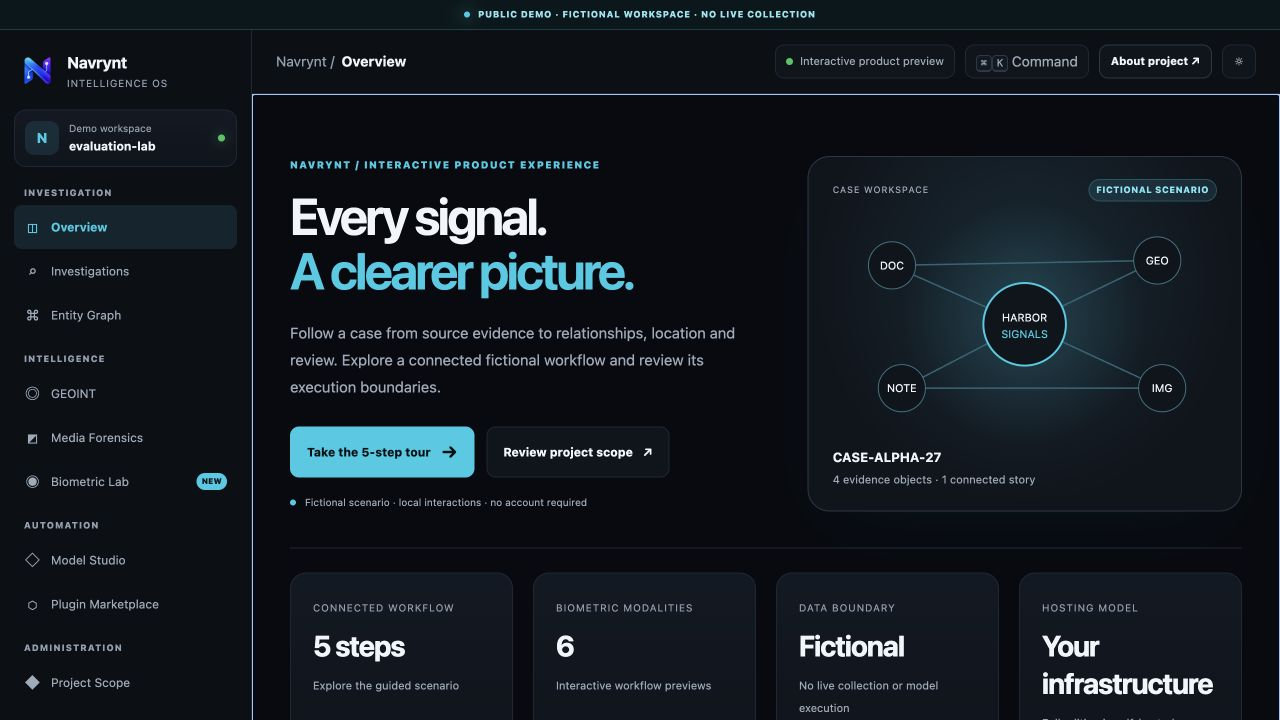
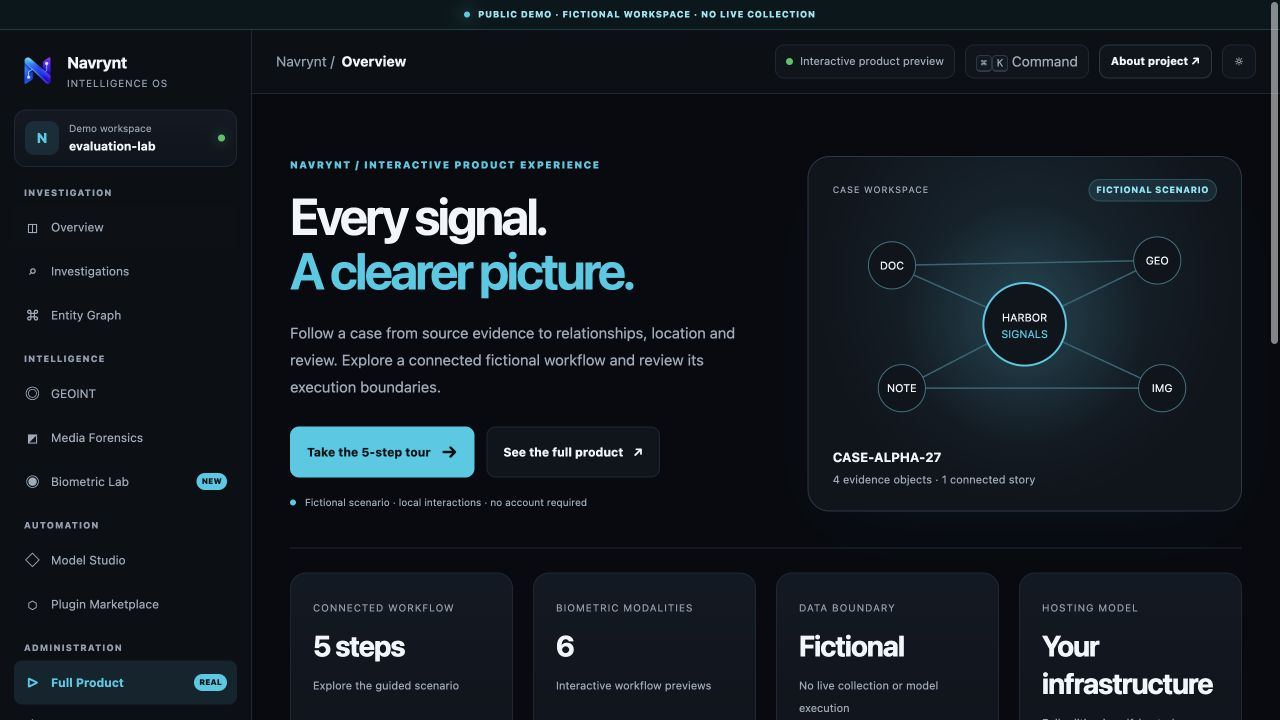
docs: explain full application and link live demo

diff --git a/README.md b/README.md
@@ -12,12 +12,12 @@
   <img src="https://img.shields.io/badge/stack-HTML%20%C2%B7%20CSS%20%C2%B7%20JavaScript-89c4ff?style=flat-square" alt="Stack: HTML, CSS and JavaScript">
 </p>
 <p align="center">
-  <a href="README.tr.md">Türkçe</a> · <a href="#demo">Demo</a> · <a href="#quick-start">Quick start</a> · <a href="#features">Features</a> · <a href="#screenshots">Screenshots</a> · <a href="#scope">Scope</a> · <a href="docs/WORKFLOWS.md">Workflow guide</a>
+  <a href="https://kaandevs-ops.github.io/navrynt-demo-public/">Open live demo ↗</a> · <a href="README.tr.md">Türkçe</a> · <a href="#demo">Demo</a> · <a href="#quick-start">Quick start</a> · <a href="#features">Features</a> · <a href="#screenshots">Screenshots</a> · <a href="#scope">Scope</a> · <a href="docs/WORKFLOWS.md">Workflow guide</a>
 </p>
 
 ![NAVRYNT investigation workspace overview](docs/media/overview.png)
 
-> **Static demo, explicit boundaries.** The interactive case, entities and tracks are fictional. Local file hashing really runs in the browser. Biometric tabs and Model Studio are workflow previews: no model inference, live intelligence collection or training runs here. GitHub Pages is not enabled; run the demo locally using the commands below.
+> **Static demo, explicit boundaries.** The interactive case, entities and tracks are fictional. Local file hashing really runs in the browser. Biometric tabs and Model Studio are workflow previews: no model inference, live intelligence collection or training runs here. Open the live demo or run it locally using the commands below. Separate historical full-product recordings are available under Full Product.
 
 ## Demo
 
@@ -64,6 +64,33 @@ Try this path: **Investigations → Harbor Signals → evidence timeline → Ent
 ![Actual static-demo tabs for Face, Iris, Fingerprint, Voiceprint, Writer-ID and Gait](docs/media/biometric-previews.gif)
 
 **Face · Iris · Fingerprint · Voiceprint · Writer-ID · Gait** each has a dedicated preview. Stages and boundary notes explain the workflow without requesting biometric data. Illustrative scores and descriptions do not constitute a new identification result or a deployment accuracy benchmark.
+
+## About the full NAVRYNT application
+
+NAVRYNT is a separate self-hosted investigation application with a Python backend and React workspace. It brings together evidence review, relationship graphs, geospatial views, provider adapters, six biometric service paths and supported model lifecycle operations. Installation, model dependencies and provider access are configured separately.
+
+**[Explore the full-product section](https://kaandevs-ops.github.io/navrynt-demo-public/#proof)** · [Recording sources and limits](docs/FULL-PRODUCT.md) · [Watch the 24-second product tour](assets/proof/product-tour.mp4)
+
+| This public demo | Separate full application |
+|---|---|
+| Fictional cases, selectable SVG graph and generated tracks | Configured investigation workflows and data adapters |
+| Six biometric interface previews | Separate model services with protocol-specific evaluation |
+| Example plan with `executes: false` | Supported jobs with required models, data and runtimes |
+| Browser-local interactions without a backend | Self-hosted backend/frontend and separately configured providers |
+
+### Actual full-product captures
+
+These four historical runs were captured on **16 October 2026**. They are separate from the fictional demo. Playing a clip does not execute that workflow in the browser.
+
+| Regional aircraft exploration | Earthquake map |
+|---|---|
+| [![Actual application: aircraft positions](assets/proof/aircraft.png)](assets/proof/aircraft.mp4) | [![Actual application: earthquake map](assets/proof/earthquakes.png)](assets/proof/earthquakes.mp4) |
+
+| Company relationship review | Research voice comparison |
+|---|---|
+| [![Actual application: company relationship](assets/proof/companies.png)](assets/proof/companies.mp4) | [![Actual application: voice comparison](assets/proof/voice.png)](assets/proof/voice.mp4) |
+
+Sources: ADSB.lol/OpenStreetMap, USGS/OpenStreetMap, GLEIF and LibriSpeech. Aircraft data is a historical snapshot; company parentage is an accounting relationship; the voice example is research evidence, not general identity accuracy. These clips do not establish that every provider, biometric service or deployment combination works. [Full attribution and limitations](docs/FULL-PRODUCT.md).
 
 ## Screenshots
 
@@ -115,7 +142,7 @@ Try this path: **Investigations → Harbor Signals → evidence timeline → Ent
 | Web Crypto SHA-256 of a selected file | Biometric model execution and identity galleries |
 | Example brief and non-executing model-plan exports | Model loading, training, evaluation and artifact export |
 
-A matching hash proves byte equality, not authenticity. A graph link does not prove identity. Workflow previews do not establish biometric accuracy or production readiness. The private full application, licensing tools, credentials, model weights and research datasets are not distributed here. Historical full-product recordings are not included in this demo repository.
+A matching hash proves byte equality, not authenticity. A graph link does not prove identity. Workflow previews do not establish biometric accuracy or production readiness. The private full application, licensing tools, credentials, model weights and research datasets are not distributed here. Four historical full-product recordings and their source notes are included separately from the fictional demo interactions.
 
 ## Technology and structure
 
@@ -128,7 +155,9 @@ scope-view.js       Data and execution boundaries
 styles.css          Responsive interface and dark/light themes
 assets/             Logo and favicon
 docs/WORKFLOWS.md   Hands-on walkthrough and troubleshooting
-docs/MEDIA.md       Capture method and media checksums
+docs/MEDIA.md       Demo capture method and media checksums
+docs/FULL-PRODUCT.md Full-application evidence, sources and limits
+assets/proof/       Historical full-product clips, screenshots and captions
 docs/media/         Actual demo screenshots, GIFs and edited video
 scripts/            Static-file validation helpers
 LICENSE             Apache License 2.0
@@ -140,7 +169,7 @@ LICENSE             Apache License 2.0
 python3 scripts/validate.py
 ```
 
-The standard-library validator checks local file links, HTML IDs, image alt attributes, publication boundaries and JavaScript syntax when Node.js is available. Node.js is optional for running the demo. The recorded walkthrough covers actual UI interactions; it is not a comprehensive automated accessibility or production test suite. No CI or Pages deployment workflow is configured.
+The standard-library validator checks local file links, HTML IDs, image alt attributes, publication boundaries and JavaScript syntax when Node.js is available. Node.js is optional for running the demo. The recorded walkthrough covers actual UI interactions; it is not a comprehensive automated accessibility or production test suite. GitHub Pages serves the static project from `main` with `.nojekyll`; no application backend is deployed.
 
 ## Feedback and license
 

diff --git a/README.tr.md b/README.tr.md
@@ -2,11 +2,11 @@
 <h1 align="center">NAVRYNT · Etkileşimli Demo</h1>
 <p align="center"><strong>Kanıtın kaynağını incele. İlişkileri takip et. İş akışını keşfet.</strong></p>
 <p align="center">Kurgusal bir vaka, seçilebilir ilişki grafiği, örnek hareket izleri ve gerçek yerel dosya hash hesabını bir araya getiren tarayıcı demosu.</p>
-<p align="center"><a href="README.md">English</a> · <a href="#hızlı-başlangıç">Hızlı başlangıç</a> · <a href="#özellikler">Özellikler</a> · <a href="#ekran-görüntüleri">Ekran görüntüleri</a> · <a href="docs/WORKFLOWS.md">Uygulamalı rehber</a></p>
+<p align="center"><a href="https://kaandevs-ops.github.io/navrynt-demo-public/">Canlı demoyu aç ↗</a> · <a href="README.md">English</a> · <a href="#hızlı-başlangıç">Hızlı başlangıç</a> · <a href="#özellikler">Özellikler</a> · <a href="#ekran-görüntüleri">Ekran görüntüleri</a> · <a href="docs/WORKFLOWS.md">Uygulamalı rehber</a></p>
 
 ![Güncel NAVRYNT demo ana ekranı](docs/media/overview.png)
 
-> **Kapsam:** Bu repo statik bir demodur. Vaka, kişilerle ilişkili örnekler ve hareket izleri kurgusaldır. Yerel SHA-256 hesabı gerçekten çalışır. Biyometri sekmeleri ve Model Studio önizlemedir; model çıkarımı, canlı veri toplama veya eğitim çalıştırmaz. Pages açık değildir; demoyu aşağıdaki komutlarla bilgisayarında açabilirsin.
+> **Kapsam:** Bu repo statik bir demodur. Vaka, kişilerle ilişkili örnekler ve hareket izleri kurgusaldır. Yerel SHA-256 hesabı gerçekten çalışır. Biyometri sekmeleri ve Model Studio önizlemedir; model çıkarımı, canlı veri toplama veya eğitim çalıştırmaz. Canlı demoyu açabilir veya aşağıdaki komutlarla bilgisayarında çalıştırabilirsin. Full Product bölümündeki tarihsel gerçek ürün kayıtları önizlemelerden ayrıdır.
 
 ## Demoyu izle
 
@@ -54,6 +54,27 @@ Tarayıcıda **[http://127.0.0.1:4173/](http://127.0.0.1:4173/)** adresini aç. 
 
 **Face · Iris · Fingerprint · Voiceprint · Writer-ID · Gait** için ayrı sekmeler bulunur. Örnek skorlar ve araştırma açıklamaları yeni analiz sonucu veya genel doğruluk ölçümü değildir. Hiçbir biyometrik örnek girmen gerekmez.
 
+## NAVRYNT tam uygulama hakkında
+
+Tam uygulama; Python backend ve React arayüzüyle vaka/kanıt inceleme, ilişki grafikleri, konumsal görünümler, veri sağlayıcıları, altı biyometri servis yolu ve desteklenen model yaşam döngüsü işlemlerini bir araya getirir. Kurulum, modeller, veri ve sağlayıcı erişimleri ayrı yapılandırılır.
+
+**[Tam ürün kayıtlarını aç](https://kaandevs-ops.github.io/navrynt-demo-public/#proof)** · [Kaynaklar ve çalışma sınırları](docs/FULL-PRODUCT.md) · [24 saniyelik ürün filmi](assets/proof/product-tour.mp4)
+
+| Bu demo | Ayrı tam uygulama |
+|---|---|
+| Kurgusal vaka, SVG grafik ve örnek izler | Yapılandırılmış iş akışları ve veri adaptörleri |
+| Altı biyometrik arayüz önizlemesi | Ayrı model servisleri ve protokole göre değerlendirme |
+| Çalıştırılmayan örnek model planı | Gereken model, veri ve çalışma ortamıyla desteklenen işler |
+| Backend olmadan tarayıcı etkileşimleri | Kendi ortamında kurulan backend, arayüz ve sağlayıcı erişimleri |
+
+16 Ekim 2026 tarihli dört gerçek kayıt; uçuş konumları, deprem haritası, şirket ilişkisi ve araştırma ses karşılaştırmasını gösterir. Bunlar statik demonun çalıştırdığı sorgular değildir. Her kayıt belirli bir çalışmayı gösterir; bütün servislerin veya genel biyometrik doğruluğun kanıtı değildir.
+
+| Gerçek konum sorgusu | Gerçek şirket ilişkisi sorgusu |
+|---|---|
+| [![Tam uygulamada uçuş konumları](assets/proof/aircraft.png)](assets/proof/aircraft.mp4) | [![Tam uygulamada şirket ilişkisi](assets/proof/companies.png)](assets/proof/companies.mp4) |
+
+Kaynaklar: ADSB.lol/OpenStreetMap, USGS/OpenStreetMap, GLEIF ve LibriSpeech. Ayrıntılı atıflar ve sınırlamalar her kaydın yanında bulunur.
+
 ## Ekran görüntüleri
 
 | Vaka ve kanıt bağlamı | Seçili grafik düğümü |
@@ -87,7 +108,7 @@ Tarayıcıda **[http://127.0.0.1:4173/](http://127.0.0.1:4173/)** adresini aç. 
 
 Dosya hash eşitliği dosyanın kaynağını veya gerçekliğini kanıtlamaz. Demo gerçek konum servisi, biyometrik kimlik tespiti ya da canlı OSINT toplama aracı olarak çalışmaz. Bu işlemler ayrı tam üründe uygun servisler, modeller, veri ve erişim yapılandırması gerektirir.
 
-Bu repoda özel tam ürün, lisans oluşturma araçları, API anahtarları, model ağırlıkları, biyometrik veri kümeleri veya tarihsel tam ürün kayıtları bulunmaz. Ekran görüntüleri ve video yalnızca burada bulunan statik demoyu gösterir.
+Bu repoda özel tam ürün, lisans oluşturma araçları, API anahtarları, model ağırlıkları, biyometrik veri kümeleri bulunmaz. Demo görüntüleri statik arayüzü gösterir; Full Product bölümündeki dört ayrı kayıt tarihsel tam ürün çalışmalarıdır.
 
 ## Teknoloji ve dosyalar
 
@@ -112,7 +133,7 @@ LICENSE             Apache License 2.0
 python3 scripts/validate.py
 ```
 
-Kontrol; yerel dosya bağlantılarını, HTML kimliklerini, görsel alternatif metinlerini ve yayın sınırlarını inceler. Node.js varsa JavaScript sözdizimini de kontrol eder. Demoyu çalıştırmak için Node.js zorunlu değildir. Bu kontrol kapsamlı otomatik erişilebilirlik veya üretim testi değildir. CI ve Pages iş akışı eklenmemiştir.
+Kontrol; yerel dosya bağlantılarını, HTML kimliklerini, görsel alternatif metinlerini ve yayın sınırlarını inceler. Node.js varsa JavaScript sözdizimini de kontrol eder. Demoyu çalıştırmak için Node.js zorunlu değildir. Bu kontrol kapsamlı otomatik erişilebilirlik veya üretim testi değildir. Pages, `.nojekyll` ile `main` dalındaki statik dosyaları sunar; uygulama backend’i yayımlanmaz.
 
 Bir hata bulursan [issue açabilirsin](https://github.com/kaandevs-ops/navrynt-demo-public/issues). Tarayıcıyı, ekran boyutunu, adımları ve beklenen sonucu belirt; kişisel bilgi veya erişim anahtarı paylaşma.
 

diff --git a/docs/MEDIA.md b/docs/MEDIA.md
@@ -1,12 +1,14 @@
 # Demo capture provenance
 
-All screenshots show actual browser interactions with the static demo in this repository, captured on 18 October 2026. No full-product inference results or live provider queries are presented as demo operations.
+All screenshots show actual browser interactions with the static demo in this repository, captured on 18 October 2026. No full-product inference results or live provider queries are presented as demo operations. The separately labelled Full Product section includes historical application recordings; its sources and limits are documented in FULL-PRODUCT.md.
 
 ## Screenshots
 
-Fourteen PNGs cover Overview, case review, selected graph node, GEOINT, local SHA-256, six biometric tabs, example model plan, light theme and a 390 × 844 mobile viewport. Desktop captures use a 1280 × 720 viewport. Case records and movement observations are fictional. Biometric panels are workflow previews, not model execution.
+Fifteen PNGs cover Overview, case review, selected graph node, GEOINT, local SHA-256, six biometric tabs, example model plan, light theme a 390 × 844 mobile viewport, and the separate Full Product section. Desktop captures use a 1280 × 720 viewport. Case records and movement observations are fictional. Biometric panels are workflow previews, not model execution.
 
[1 lines of base64/hex data omitted]
+
+The Overview and Full Product stills were refreshed when the recording section was added. The demo GIF/video retain their earlier captured navigation layout; they document the unchanged fictional interaction workflows.
 
 ## GIFs
 
